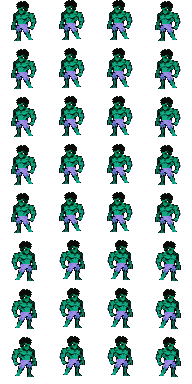
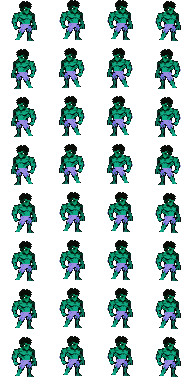
Héroes: orientación por héroe (Thor, Hulk y Spider-Man miran a la izquierda en el original); quietos y en la selección miran a la derecha
Claude-Session: https://claude.ai/code/session_01NKXfdGR8G1iTrYkbieCHGV

diff --git a/CLAUDE.md b/CLAUDE.md
@@ -38,6 +38,6 @@ Juego web 2D estilo Vampire Survivors con héroes de Marvel. Lo desarrolla un eq
 - Oro y progreso permanente: `src/meta/` (guardado, mejoras permanentes) · balance del oro en `GOLD`, `BREAKABLE_PROPS` y `META` de `gameplayConfig.ts`
 - Interfaz: `src/ui/` (`UiButton`, `UpgradeCard`, `drawPanel` y escalas en `uiLayout.ts`)
 - Héroes: `src/characters/` (registro en `registry.ts`, rarezas en `rarity.ts`; para sumar uno: definición + sprites en `HEROES` del generador + entrada en el registro; su precio sale de su `rarity`) · Escenas: `src/scenes/` (Boot, Menu, Game, Hud)
-- Arte de héroes: Iron Man sale de `tools/ironman-reference.mjs`; Capitán y Thor están calcados de las imágenes de referencia de Santi (`tools/hero-trace-*.mjs`, 40 de alto, un solo dibujo que se espeja al ir a la derecha; cuadros de 48×48, suelo en (24, 41), `DRAWN_HEROES` en el generador); Spider-Man y Hulk también (mismo método). Todos los héroes usan cuadros de 48×48.
+- Arte de héroes: Iron Man sale de `tools/ironman-reference.mjs`; Capitán y Thor están calcados de las imágenes de referencia de Santi (`tools/hero-trace-*.mjs`, 40 de alto, un solo dibujo que se espeja según hacia dónde mira el original (`DRAWN_FACES_LEFT`: Thor, Hulk y Spider-Man miran a la izquierda; Capitán e Iron Man a la derecha; quieto todos miran a la derecha); cuadros de 48×48, suelo en (24, 41), `DRAWN_HEROES` en el generador); Spider-Man y Hulk también (mismo método). Todos los héroes usan cuadros de 48×48.
 - Íconos de la tienda: `tools/meta-icons.mjs` (dibujados con código, 16×16), `tools/meta-icons-custom.mjs` (a mano, 16×16) y `tools/meta-icons-custom32.mjs` (a mano, 32×32); la hoja final usa cuadros de 32×32 (`SHEET_CELL`, `META_ITEM_SIZE`).
 - Detalles de sprites y cómo agregar animaciones o personajes: `README.md`
